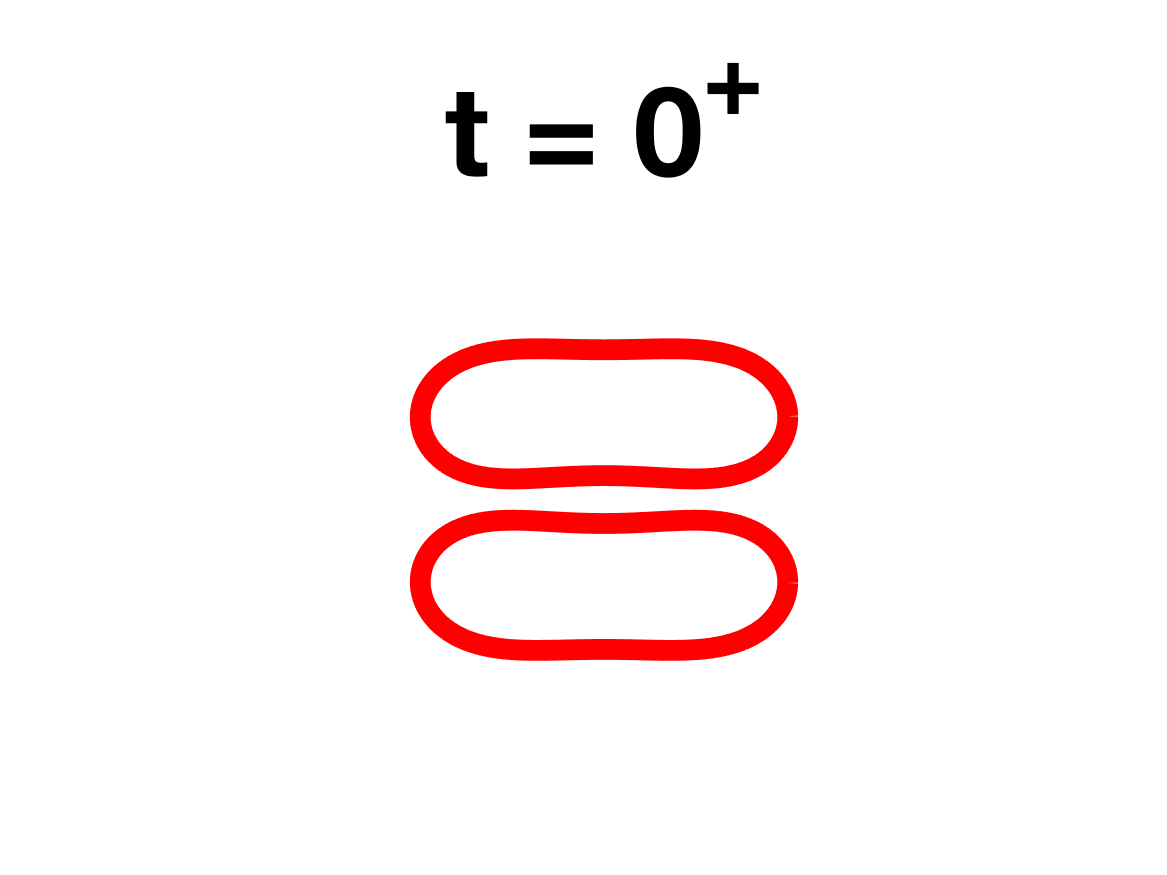
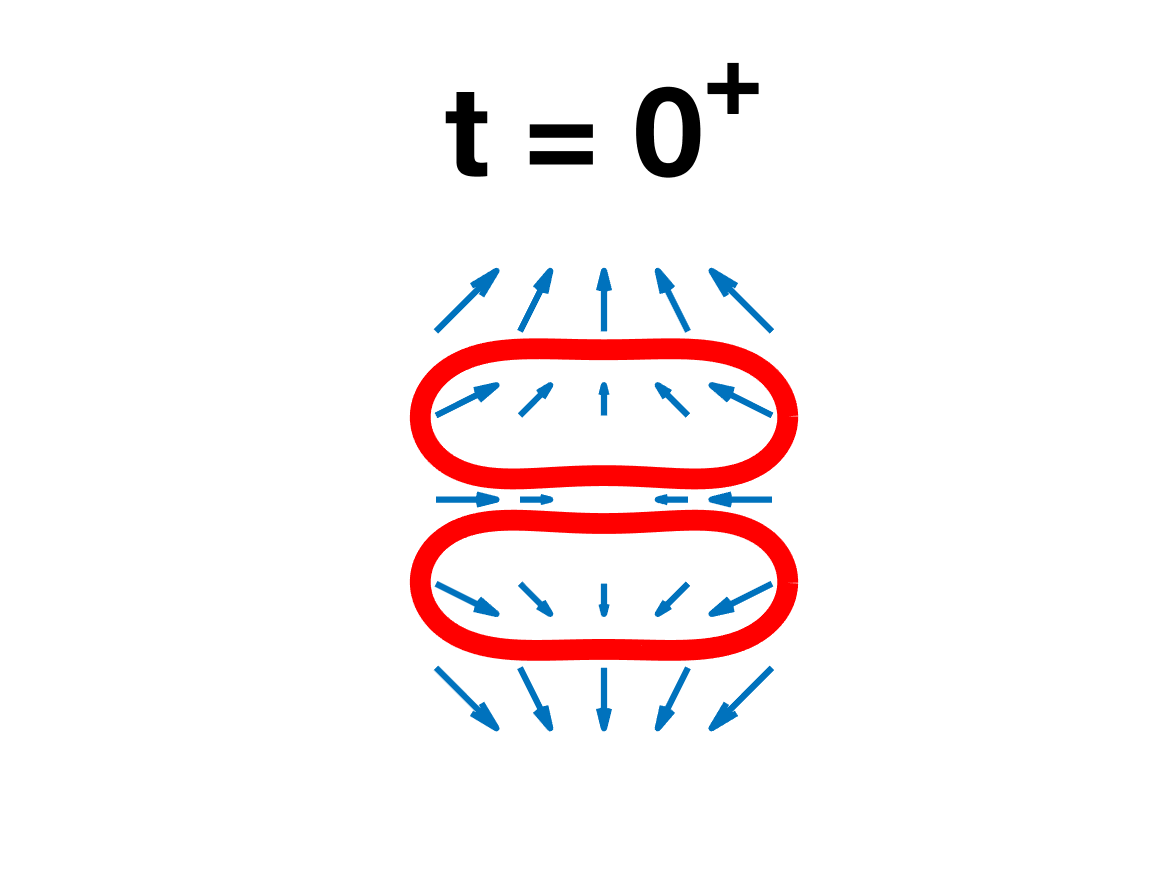
worked on extensional example

diff --git a/vesicle_code/docs/adhesion/adhesion.tex b/vesicle_code/docs/adhesion/adhesion.tex
@@ -606,7 +606,7 @@ RamachandranAndersonLealIsraelachvili2010_Langmuir}.
 
 Figure~\ref{fig:Dec18_vesicle_shape}(a) shows the equilibrium shapes of
 vesicles with three values of reduced area: $\Delta A=0.95$, $0.75$ and
-$0.6$ with $H=5$ \todo[inline]{Is this really the Hamacher constant?
+$0.6$ with $H=5$ \todo[inline]{Is this really the Hamaker constant?
 It's not 0.5?} and $\delta = 0.2$.  The equilibrium vesicle shape for
 $\Delta A=0.95$ is the circular cap with a flatten contact region.  This
 is similar to the observed shapes of two vesicles under strong adhesive
@@ -704,11 +704,11 @@ The hydrodynamics of a single vesicle in an extensional flow has
 revealed novel nonlinear vesicle dynamics not found for a viscous drop
 \cite{KantslerSegreSteinberg2008_PRL, ZhaoShaqfeh2013_JFM,
 Narsimhan2014_JFM,  DahlNarsimhanGouveia2016_SoftMatt}.  The stagnation
-point (zero-velocity point) in an extensional flow is a saddle point
-where two laminar streams converge along an axis and then diverge in a
-different direction.  With an active control algorithm to fix the
-position of the stagnation point by adjusting the streaming flow
-strength with a feedback loop~\cite{Johnson-Chavarria2011_EMJ}, a
+point (zero-velocity point) in an extensional flow, $\uu =\chi(-x,y) $,
+is a saddle point where two laminar streams converge along an axis and
+then diverge in a different direction.  With an active control algorithm
+to fix the position of the stagnation point by adjusting the streaming
+flow strength with a feedback loop~\cite{Johnson-Chavarria2011_EMJ}, a
 particle can be trapped at the stagnation point for long time scales to
 facilitate image acquisition or other detailed measures such as PIV of
 flow inside and around the particle.  To explore the application of such
@@ -716,41 +716,61 @@ a fluid trap to measure the adhesion strength between two bound vesicle
 membranes, we propose the following thought experiment.
 
 We begin from two vesicles forming a doublet under an adhesion potential
-in a quiescent flow as in Section~\ref{sec:qflow}.  Once a doublet forms
-and reaches an equilibrium configuration, we turn on the fluid trap with
-the stagnation point placed at the center of the vesicle doublet.  For
-simplification we assume that each vesicle in the doublet has the same
-reduced area, membrane area, and bending stiffness.  At low extensional
-rate, we expect the vesicle doublet to stay bound at the fluid trap
-stagnation point.  On the other hand, the vesicle doublet may become
-unstable and eventually separate at a high extensional rate.  Thus we
-expect there to exist a critical extensional rate above which the
-vesicle doublet cannot stay bound under a given adhesion potential.  The
-dependence of the critical extensional rate on the adhesion potential
-and the mechanical vesicle properties thus provides a means to probe the
-physics of membrane adhesion.
+in a quiescent flow as described in Section~\ref{sec:qflow}.  Once a
+doublet forms and reaches an equilibrium configuration, we turn on the
+fluid trap with the stagnation point placed at the center of the vesicle
+doublet.  For simplification we assume that each vesicle in the doublet
+has the same reduced area, membrane area, and bending stiffness.  At low
+extensional rate, $\chi$, we expect the vesicle doublet to stay bound at
+the fluid trap stagnation point.  On the other hand, the vesicle doublet
+may become unstable and eventually separate at higher extensional rates.
+Thus we expect there to exist a critical extensional rate above which
+the vesicle doublet cannot stay bound under a given adhesion potential.
+The dependence of the critical extensional rate on the adhesion
+potential and the mechanical vesicle properties thus provides a means to
+probe the physics of membrane adhesion.
 
-\todo[inline]{Start rewriting from here}
-We consider two vesicles suspended in the extensional flow $\uu =
-\chi(-x,y)$, where $\chi$ is the extensional rate.  The vesicles are
-initially placed symmetrically on the $x$ axis in a quiescent flow
-($\chi = 0$).  Once they reach steady-state doublet, the extensional
-background flow is started.  We use this example to characterize the
-required extensional rate to overcome the adhesive forces of the
-doublet.  In particular, we investigate the effect of the reduced area.
-For all the simulations, the length of the vesicles are fixed, while the
-area is changed to achieve the desired reduced area.
+We consider six pairs of vesicles with reduced areas 0.70, 0.75, 0.80,
+0.85, 0.90, and 0.95, and we use extensional rates between $10^{-2}$ and
+$10^{-1}$.  For all the simulations, the length of the vesicles are
+fixed, while the area is changed to achieve the desired reduced area.
+Since the stagnation point can be controlled in an experimental
+setting~\cite{Johnson-Chavarria2011_EMJ}, we translate the vesicles at
+each time step so that the stagnation point occurs exactly in the middle
+of the two vesicles.  With this adjustment, the doublet can not migrate
+towards $(0,\pm \infty)$; instead, for all time, each vesicle is
+centered at $\pm(x_0,y_0)$ for some $(x_0,y_0)$.
 
-We observe three different vesicle configurations that depend on the
-reduced area and extensional rate.  First, the doublet is not broken and
-the individual vesicles long axis is parallel to the contracting
-direction (Figure~\ref{fig:extensional1}).  Second, the doublet is not
-broken, but it tilts to some inclination angle that is not parallel to
-either of the contracting or separation directions
-(Figure~\ref{fig:extensional3}).  Finally, if the extensional rate is
-sufficiently large, the doublet is broken and the vesicles tend to
-$(0,\pm \infty)$.
+As expected, we observe two different regimes---the extensional rate is
+sufficiently small that the doublet structure is not broken, and the
+extensional rate is sufficiently large that the doublet is broken.  In
+Figure~\ref{fig:extensionalPhaseDiagram}.
 
+\begin{figure}[htp]
+  \includegraphics[width=0.5\textwidth]{figs/extensional_adR4em1adS7em1_phaseDiagram.pdf}
+  \caption{\label{fig:extensionalPhaseDiagram} Phase diagram of vesicle
+  hydrodynamics in an extensional flow.  At a fixed Hamaker constant
+  $H=0.7$ and adhesion length scale $\delta=0.4$.  For small extensional
+  rates, the doublet structure is not broken (blue marks), while at
+  large extensional rates, the doublet is broken (red marks).}
+\end{figure}
+
+In Figures~\ref{fig:extensional1}--\ref{fig:extensional3}, we show
+snapshots of two vesicles of reduced area $0.70$ in an extensional flow
+with three different extensional rates.  Interestingly, when the
+extensional rate does not overcome the adhesion rate, the doublet does
+not remain parallel to the stagnation point, but instead tilts to an
+inclination angle (Figures~\ref{fig:extensional1}
+and~\ref{fig:extensional2}.  We include a plot of the inclination angle
+as a function of time for varying extensional rates (left plot of
+Figure~\ref{fig:extensionalInclinationAngle}).  The inclination angle is
+defined defined in with respect to the diverging direction (right plot
+of Figure~\ref{fig:extensionalInclinationAngle}).  When the doublet is
+broken at reduced area $0.70$, the extensional rate is sufficiently
+large to align the long axis of the vesicle with the diverging direction
+and then the vesicles separate.  However, for larger reduced areas, the
+separation dynamics is different.  Instead, the vesicles tilt to an
+inclination angle and then separate (Figure~\ref{fig:extensional4}).
 
 \begin{figure}[htp]
   \includegraphics[width = 0.19\textwidth]{figs/extensional_adR4em1adS7em1Chi2em2_ra070_image01.png}
@@ -759,9 +779,9 @@ $(0,\pm \infty)$.
   \includegraphics[width = 0.19\textwidth]{figs/extensional_adR4em1adS7em1Chi2em2_ra070_image04.png}
   \includegraphics[width = 0.19\textwidth]{figs/extensional_adR4em1adS7em1Chi2em2_ra070_image05.png}
   \caption{\label{fig:extensional1} Two vesicles in an extensional flow.
-  The reduced area is $0.7$, the adhesion strength is $0.7$, and the
-  adhesion length scale is $0.4$, extensional rate is $\chi = 0.02$.
-  The doublet tilts to an inclination angle.
+  The reduced area is $0.7$, the Hamaker constant is $H = 0.7$, and the
+  adhesion length scale is $\delta = 0.4$, extensional rate is $\chi =
+  0.02$.  The doublet tilts to an inclination angle.
   }
 \end{figure}
 
@@ -773,9 +793,9 @@ $(0,\pm \infty)$.
   \includegraphics[width = 0.19\textwidth]{figs/extensional_adR4em1adS7em1Chi7em2_ra070_image04.png}
   \includegraphics[width = 0.19\textwidth]{figs/extensional_adR4em1adS7em1Chi7em2_ra070_image05.png}
   \caption{\label{fig:extensional2} Two vesicles in an extensional flow.
-  The reduced area is $0.7$, the adhesion strength is $0.7$, and the
-  adhesion length scale is $0.4$, extensional rate is $\chi = 0.07$.
-  The doublet tilts to an inclination angle.}
+  The reduced area is $0.7$, the Hamaker constant is $H = 0.7$, and the
+  adhesion length scale is $\delta = 0.4$, extensional rate is $\chi =
+  0.07$.  The doublet tilts to an inclination angle.}
 \end{figure}
 
 
@@ -786,41 +806,40 @@ $(0,\pm \infty)$.
   \includegraphics[width = 0.19\textwidth]{figs/extensional_adR4em1adS7em1Chi1em1_ra070_image04.png}
   \includegraphics[width = 0.19\textwidth]{figs/extensional_adR4em1adS7em1Chi1em1_ra070_image05.png}
   \caption{\label{fig:extensional3} Two vesicles in an extensional flow.
-  The reduced area is $0.7$, the adhesion strength is $0.7$, and the
-  adhesion length scale is $0.4$, extensional rate is $\chi = 0.1$.  The
-  vesicles extensional rate has overcome the adhesive force, and the
-  vesicles doublet is broken.}
+  The reduced area is $0.7$, the Hamaker constant is $H = 0.7$, and the
+  adhesion length scale is $\delta = 0.4$, extensional rate is $\chi =
+  0.1$.  The vesicles extensional rate has overcome the adhesive force,
+  and the vesicles doublet is broken.}
 \end{figure}
-
-Whether the doublet is broken or not and the inclination angle of the
-doublet depends on the extensional rate and the vesicles' reduced area.
-A phase diagram of the steady-state configuration is in
-Figure~\ref{fig:extensionalPhaseDiagram}.  Final configurations that
-remain symmetric to the flow (Figure~\ref{fig:extensional1} are
-indicated by red dots, tilt to some inclination angle
-(Figure~\ref{fig:extensional2} are indicated by blue dots, and that
-separate (Figure~\ref{fig:extensional3}) are indicated by green dots.
 
 
 \begin{figure}[htp]
-  \includegraphics[width=0.5\textwidth]{figs/extensional_adR4em1adS7em1_phaseDiagram.pdf}
-  \caption{\label{fig:extensionalPhaseDiagram} Phase diagram of vesicle
-  hydrodynamics in an extensional flow.  At a fixed Hamaker constant
-  $H=0.7$ and adhesion length scale $\delta=0.4$, doublets may either
-  remain symmetric to the flow (red marks), or tilt to some inclination
-  angle (blue dots), or the extensional rate, $\chi$, may overcome the
-  adhesive force (green dots).}
+  \includegraphics[width = 0.19\textwidth]{figs/extensional_adR4em1adS7em1Chi1em1_ra080_image01.png}
+  \includegraphics[width = 0.19\textwidth]{figs/extensional_adR4em1adS7em1Chi1em1_ra080_image02.png}
+  \includegraphics[width = 0.19\textwidth]{figs/extensional_adR4em1adS7em1Chi1em1_ra080_image03.png}
+  \includegraphics[width = 0.19\textwidth]{figs/extensional_adR4em1adS7em1Chi1em1_ra080_image04.png}
+  \includegraphics[width = 0.19\textwidth]{figs/extensional_adR4em1adS7em1Chi1em1_ra080_image05.png}
+  \caption{\label{fig:extensional3} Two vesicles in an extensional flow.
+  The reduced area is $0.8$, the Hamaker constant is $H = 0.7$, and the
+  adhesion length scale is $\delta0.4$, extensional rate is $\chi =
+  0.1$.  Initially, the doublet tilts to an inclination angle, and then
+  the extensional rate overcomes the adhesive force and the doublet is
+  broken.}
 \end{figure}
 
-In Figure~\ref{fig:extensionalInclinationAngle}, we plot the inclination
-angle of a doublet formed by two vesicles of reduced area $0.70$ at four
-different extensional rates.  
+\todo[inline]{Plot of the final inclination angle of doublets that
+survive the extensional rate}
 
 \begin{figure}[htp]
-  \centering
-  \includegraphics[height=0.4\textwidth]{figs/adR4em1adS7em1_ra070_inclinationAngle.pdf}
+  \begin{minipage}{0.6\textwidth}
+    \centering
+    \includegraphics[width=\textwidth]{figs/adR4em1adS7em1_ra070_inclinationAngle.pdf}
+  \end{minipage}
   \hfill
-  \includegraphics[height=0.4\textwidth]{figs/angleDefinition.pdf}
+  \begin{minipage}{0.33\textwidth}
+    \centering
+    \includegraphics[width=\textwidth]{figs/angleDefinition.pdf}
+  \end{minipage}
   \caption{\label{fig:extensionalInclinationAngle} {\em Left}: The
   inclination angle of a doublet formed by vesicles of reduced area
   $0.70$ submerged in an extensional flow with an extensional rate of
@@ -869,6 +888,8 @@ doublets are formed (blue curves).
   flow.  The reduced area is $0.90$, the Hamaker constant is $H=0.7$,
   the adhesion length scale is $\delta = 0.4$, and the shear rate is
   $\chi=0.5$.}
+  \todo[inline]{Superimpose the background velocity on the leftmost plot
+  to indicate the shearing motion}
 \end{figure}
 
 \begin{figure}

diff --git a/vesicle_code/examples/output/makeImages.m b/vesicle_code/examples/output/makeImages.m
@@ -1,11 +1,11 @@
 addpath ../../src
 set(0,'DefaultAxesFontSize',22)
 
-irate = 30; % controls the speed of the visualization
+irate = 3; % controls the speed of the visualization
 
 if 1
-  file = 'extensional2VesAData.bin';
-%  file = '~/projects/brinkman/vesicle_code/results/extensional2Ves/adR4em1adS7em1Chi7em2_ra090_largerTol/extensional2VesData.bin';
+%  file = 'extensional2VesEData.bin';
+  file = '~/projects/brinkman/vesicle_code/results/extensional2Ves/adR4em1adS7em1Chi1em1_ra080/extensional2VesData.bin';
   ax = [-4 4 -5 5];
   options.confined = false;
 end
